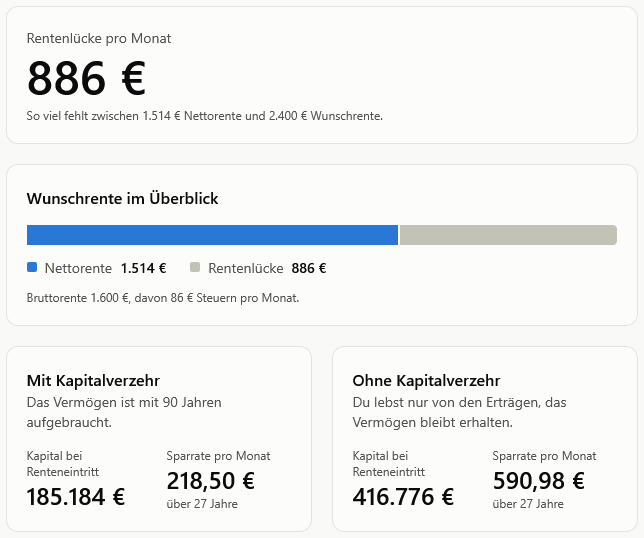
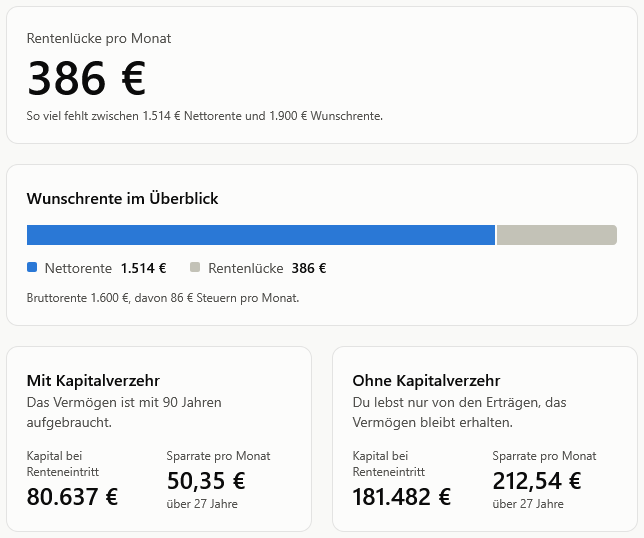
Use a desired pension of 1,900 in the landing page screenshots

diff --git a/src/lib/i18n/de.ts b/src/lib/i18n/de.ts
@@ -543,19 +543,19 @@ export const de = {
     ],
     screenshotsHeading: "So sieht es aus",
     screenshotsNote:
-      "Beispiel mit gerundeten Werten, angelehnt an einen durchschnittlichen Arbeitnehmer in Deutschland: 40 Jahre alt, 42.000 € zu versteuerndes Einkommen, 15.000 € Startkapital, 300 € pro Monat zum Investieren, 1.500 € gesetzliche Rente und 2.400 € Wunschrente. Das sind Annahmen zur Veranschaulichung, keine Prognose.",
+      "Beispiel mit gerundeten Werten, angelehnt an einen durchschnittlichen Arbeitnehmer in Deutschland: 40 Jahre alt, 42.000 € zu versteuerndes Einkommen, 15.000 € Startkapital, 300 € pro Monat zum Investieren, 1.500 € gesetzliche Rente und 1.900 € Wunschrente. Das sind Annahmen zur Veranschaulichung, keine Prognose.",
     screenshots: {
       plan: {
         title: "Gesamtplan",
         caption:
           "Reicht die Sparrate? Der Plan zeigt, mit welcher Wahrscheinlichkeit die Wunschrente erreicht wird, welchen Korridor dein Vermögen durchläuft und wie viel mehr oder weniger du sparen solltest.",
-        alt: "Gesamtplan mit Status „Mehr sparen“, 29 % Wahrscheinlichkeit und dem Diagramm des Vermögens bis zum Renteneintritt",
+        alt: "Gesamtplan mit Status „Im Plan“, 86 % Wahrscheinlichkeit und dem Diagramm des Vermögens bis zum Renteneintritt",
       },
       pensionGap: {
         title: "Rentenlücke",
         caption:
           "Was zwischen erwarteter Rente und Wunschrente fehlt – und welches Kapital und welche Sparrate die Lücke schließen.",
-        alt: "Rentenlückenrechner mit 886 € Lücke pro Monat sowie nötigem Kapital und nötiger Sparrate",
+        alt: "Rentenlückenrechner mit 386 € Lücke pro Monat sowie nötigem Kapital und nötiger Sparrate",
       },
       avDepot: {
         title: "Altersvorsorgedepot",

diff --git a/src/lib/i18n/en.ts b/src/lib/i18n/en.ts
@@ -35,19 +35,19 @@ export const en: Dictionary = {
     ],
     screenshotsHeading: "What it looks like",
     screenshotsNote:
-      "Example with rounded values, modelled on an average employee in Germany: 40 years old, €42,000 taxable income, €15,000 starting capital, €300 per month to invest, €1,500 statutory pension and a desired pension of €2,400. These are assumptions for illustration, not a forecast.",
+      "Example with rounded values, modelled on an average employee in Germany: 40 years old, €42,000 taxable income, €15,000 starting capital, €300 per month to invest, €1,500 statutory pension and a desired pension of €1,900. These are assumptions for illustration, not a forecast.",
     screenshots: {
       plan: {
         title: "Overall plan",
         caption:
           "Is the savings rate enough? The plan shows how likely the desired pension is to be reached, the corridor your wealth moves in, and how much more or less you should save.",
-        alt: "Overall plan with the status “Save more”, 29% probability and the chart of wealth until retirement",
+        alt: "Overall plan with the status “On plan”, 86% probability and the chart of wealth until retirement",
       },
       pensionGap: {
         title: "Pension gap",
         caption:
           "What is missing between the expected pension and the desired pension – and which capital and savings rate close the gap.",
-        alt: "Pension gap calculator showing a gap of €886 per month and the capital and savings rate needed",
+        alt: "Pension gap calculator showing a gap of €386 per month and the capital and savings rate needed",
       },
       avDepot: {
         title: "Altersvorsorgedepot",

diff --git a/src/app/page.tsx b/src/app/page.tsx
@@ -8,7 +8,7 @@ import { getDictionary, getLocale } from "@/lib/i18n/server";
 
 /** Pixel sizes of the screenshots in public/screenshots, per language. */
 const SCREENSHOTS = [
-  { key: "plan", file: "plan", size: { de: [644, 950], en: [644, 950] } },
+  { key: "plan", file: "plan", size: { de: [644, 853], en: [644, 869] } },
   { key: "pensionGap", file: "pension-gap", size: { de: [644, 538], en: [644, 538] } },
   { key: "avDepot", file: "av-depot", size: { de: [644, 896], en: [644, 912] } },
 ] as const;
